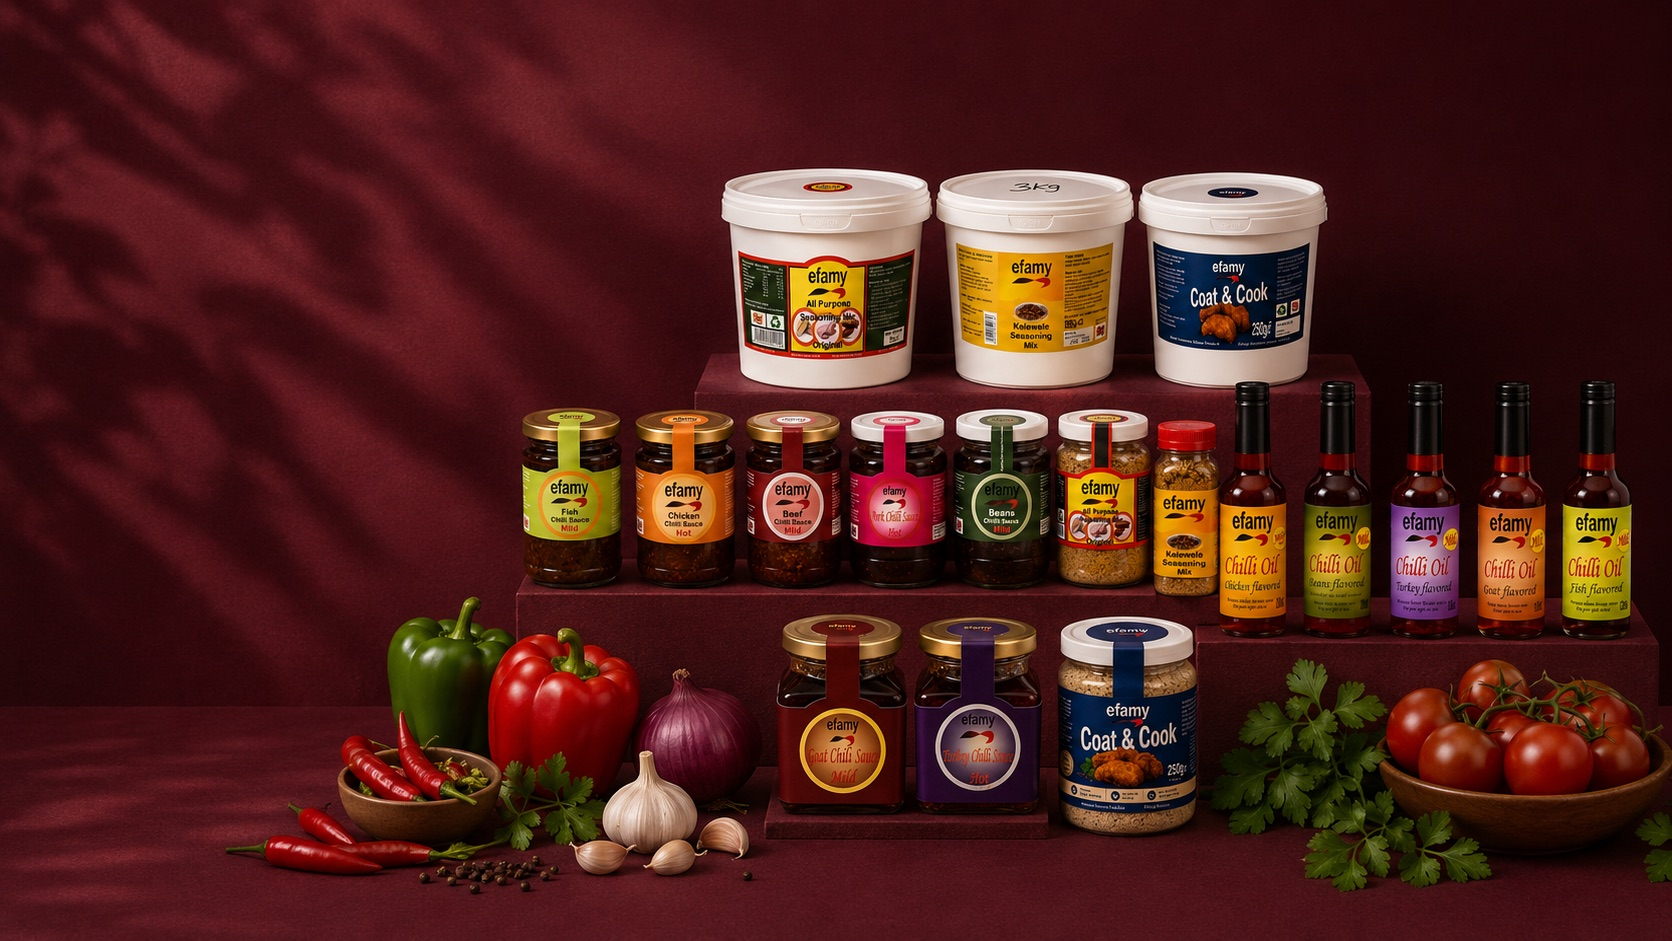
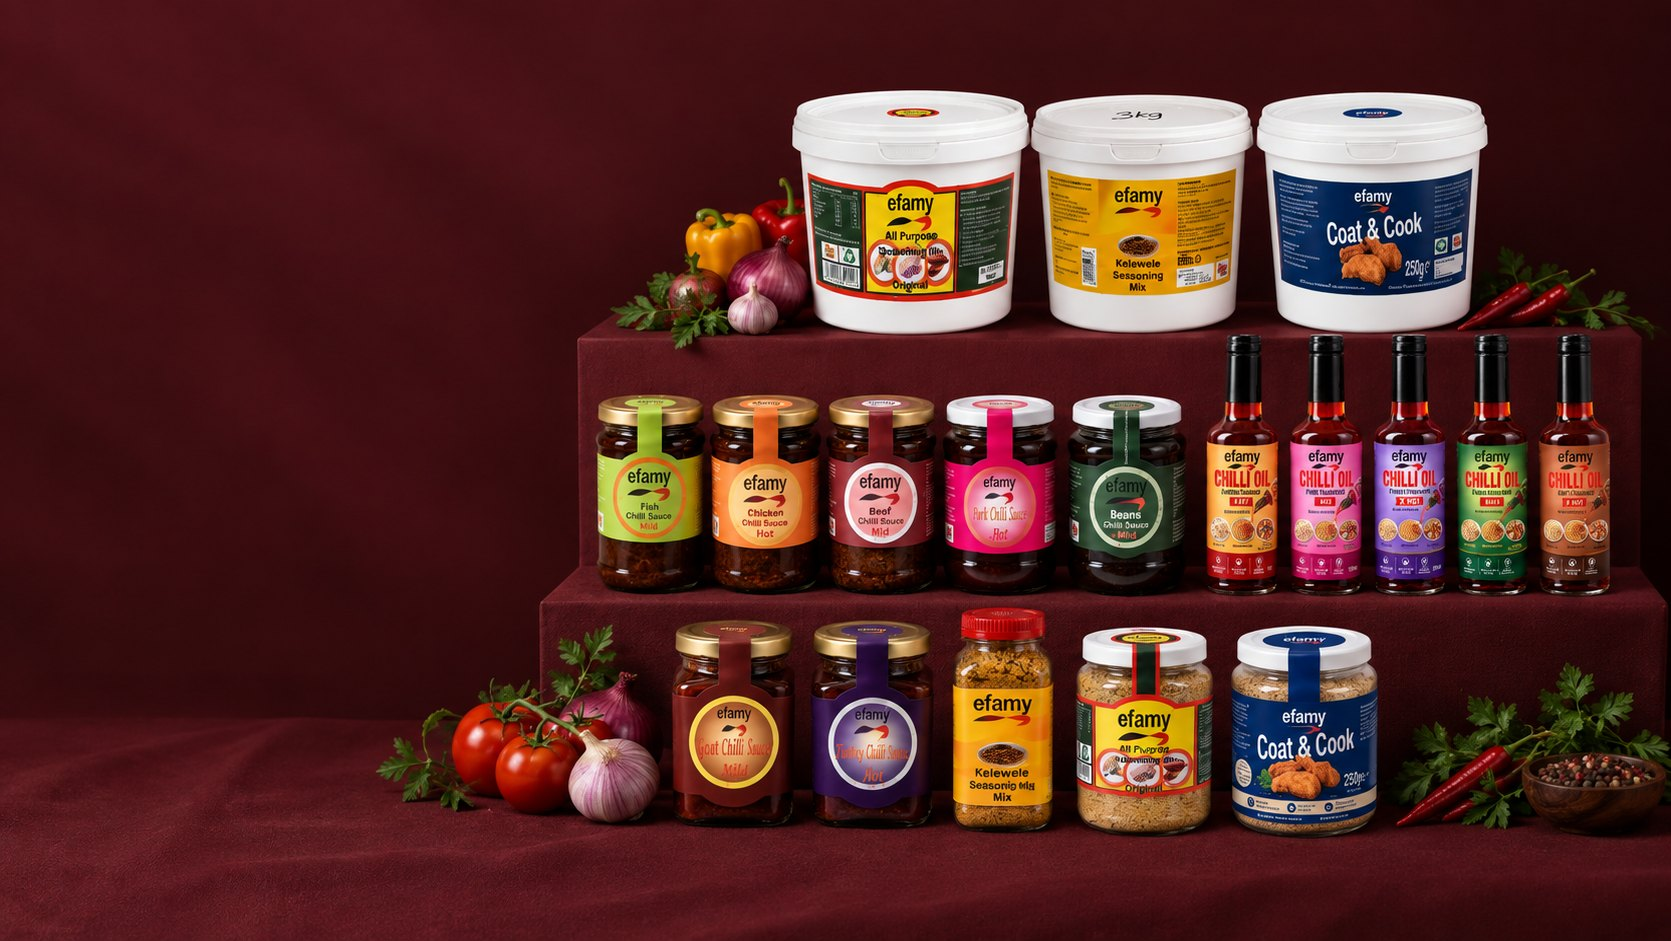
feat: put the full range display on the homepage hero
Replaces the previous hero photograph with the stepped range shot: buckets,
jars, oils and seasonings together on the brand burgundy, which already
matches the section background behind it.

The photograph this replaced had room on one side for the headline. This one
is busy from edge to edge, so the left to right scrim on its own left the
headline and the trust badges sitting on top of jars. A third wash, vertical
this time, darkens the top and the bottom and leaves the middle of the picture
alone. Checked at 1440 and at 390, where the badge row was the worst of it.

Filed from public/herro.png, which /public/*.png ignores and would never have
deployed. 1.97 MB to 231 KB, smaller than the 384 KB file it replaces.

Only the homepage uses this image; About and Contact pass their own.

diff --git a/src/components/sections/hero.tsx b/src/components/sections/hero.tsx
@@ -63,6 +63,17 @@ export function Hero({
         aria-hidden="true"
         className="absolute inset-0 -z-10 bg-linear-to-r from-ink/75 via-ink/35 to-transparent sm:via-ink/25"
       />
+      {/*
+       * A third, vertical wash. The range shot is busy from edge to edge,
+       * where the photograph this replaced had room to breathe on one side, so
+       * the horizontal scrim alone left the headline and the badge row sitting
+       * on jars. This darkens the top and the bottom and leaves the middle of
+       * the picture alone.
+       */}
+      <div
+        aria-hidden="true"
+        className="absolute inset-0 -z-10 bg-linear-to-b from-ink/70 via-ink/30 to-ink/75 sm:from-ink/35 sm:via-transparent sm:to-ink/60"
+      />
 
       <Container>
         <div
